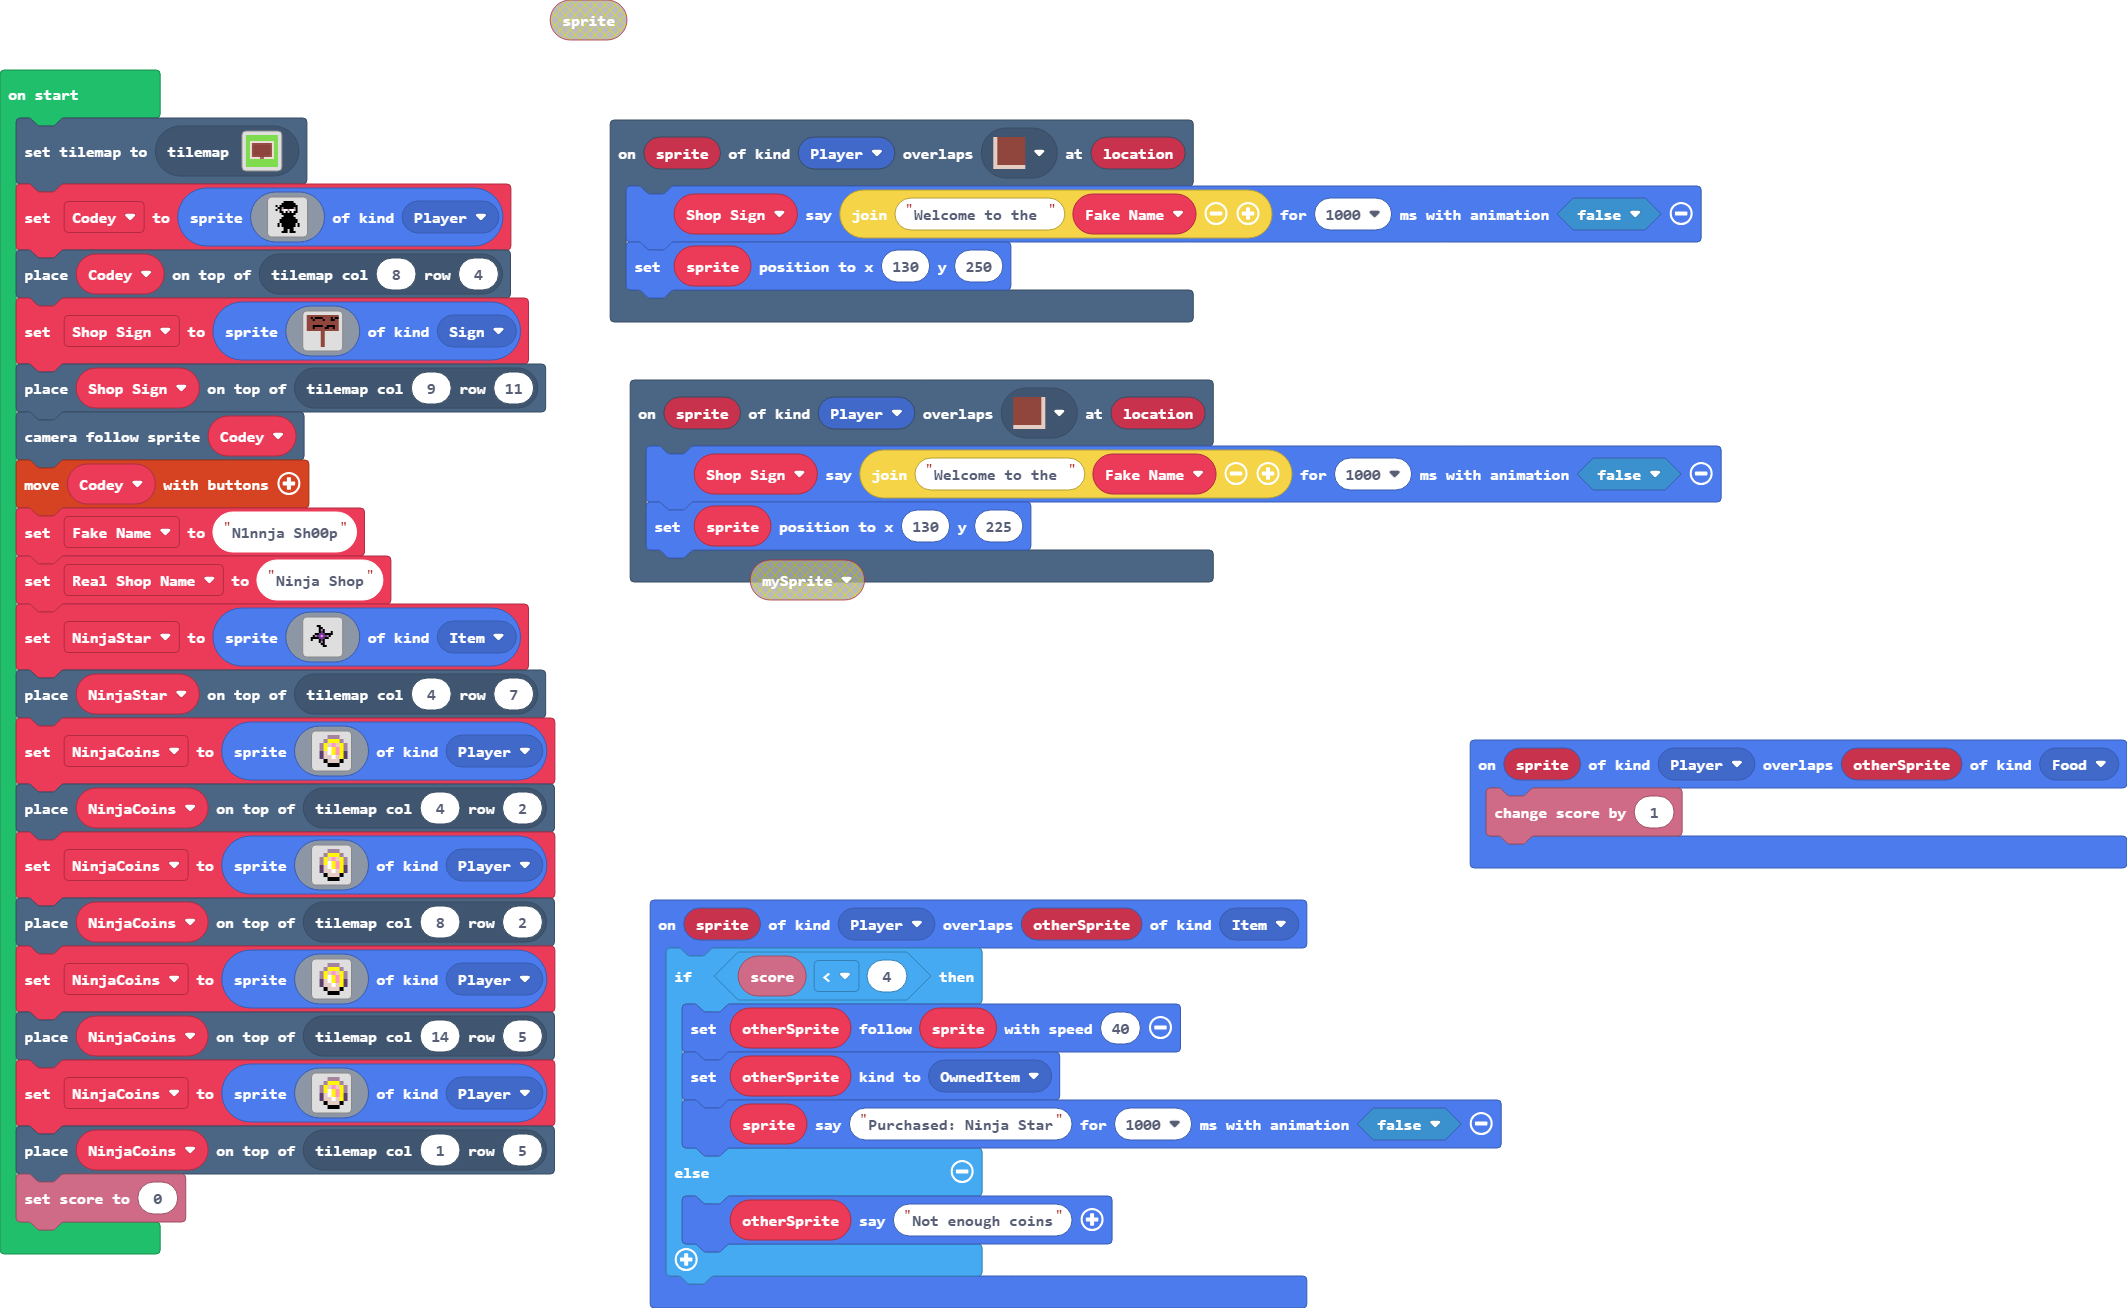
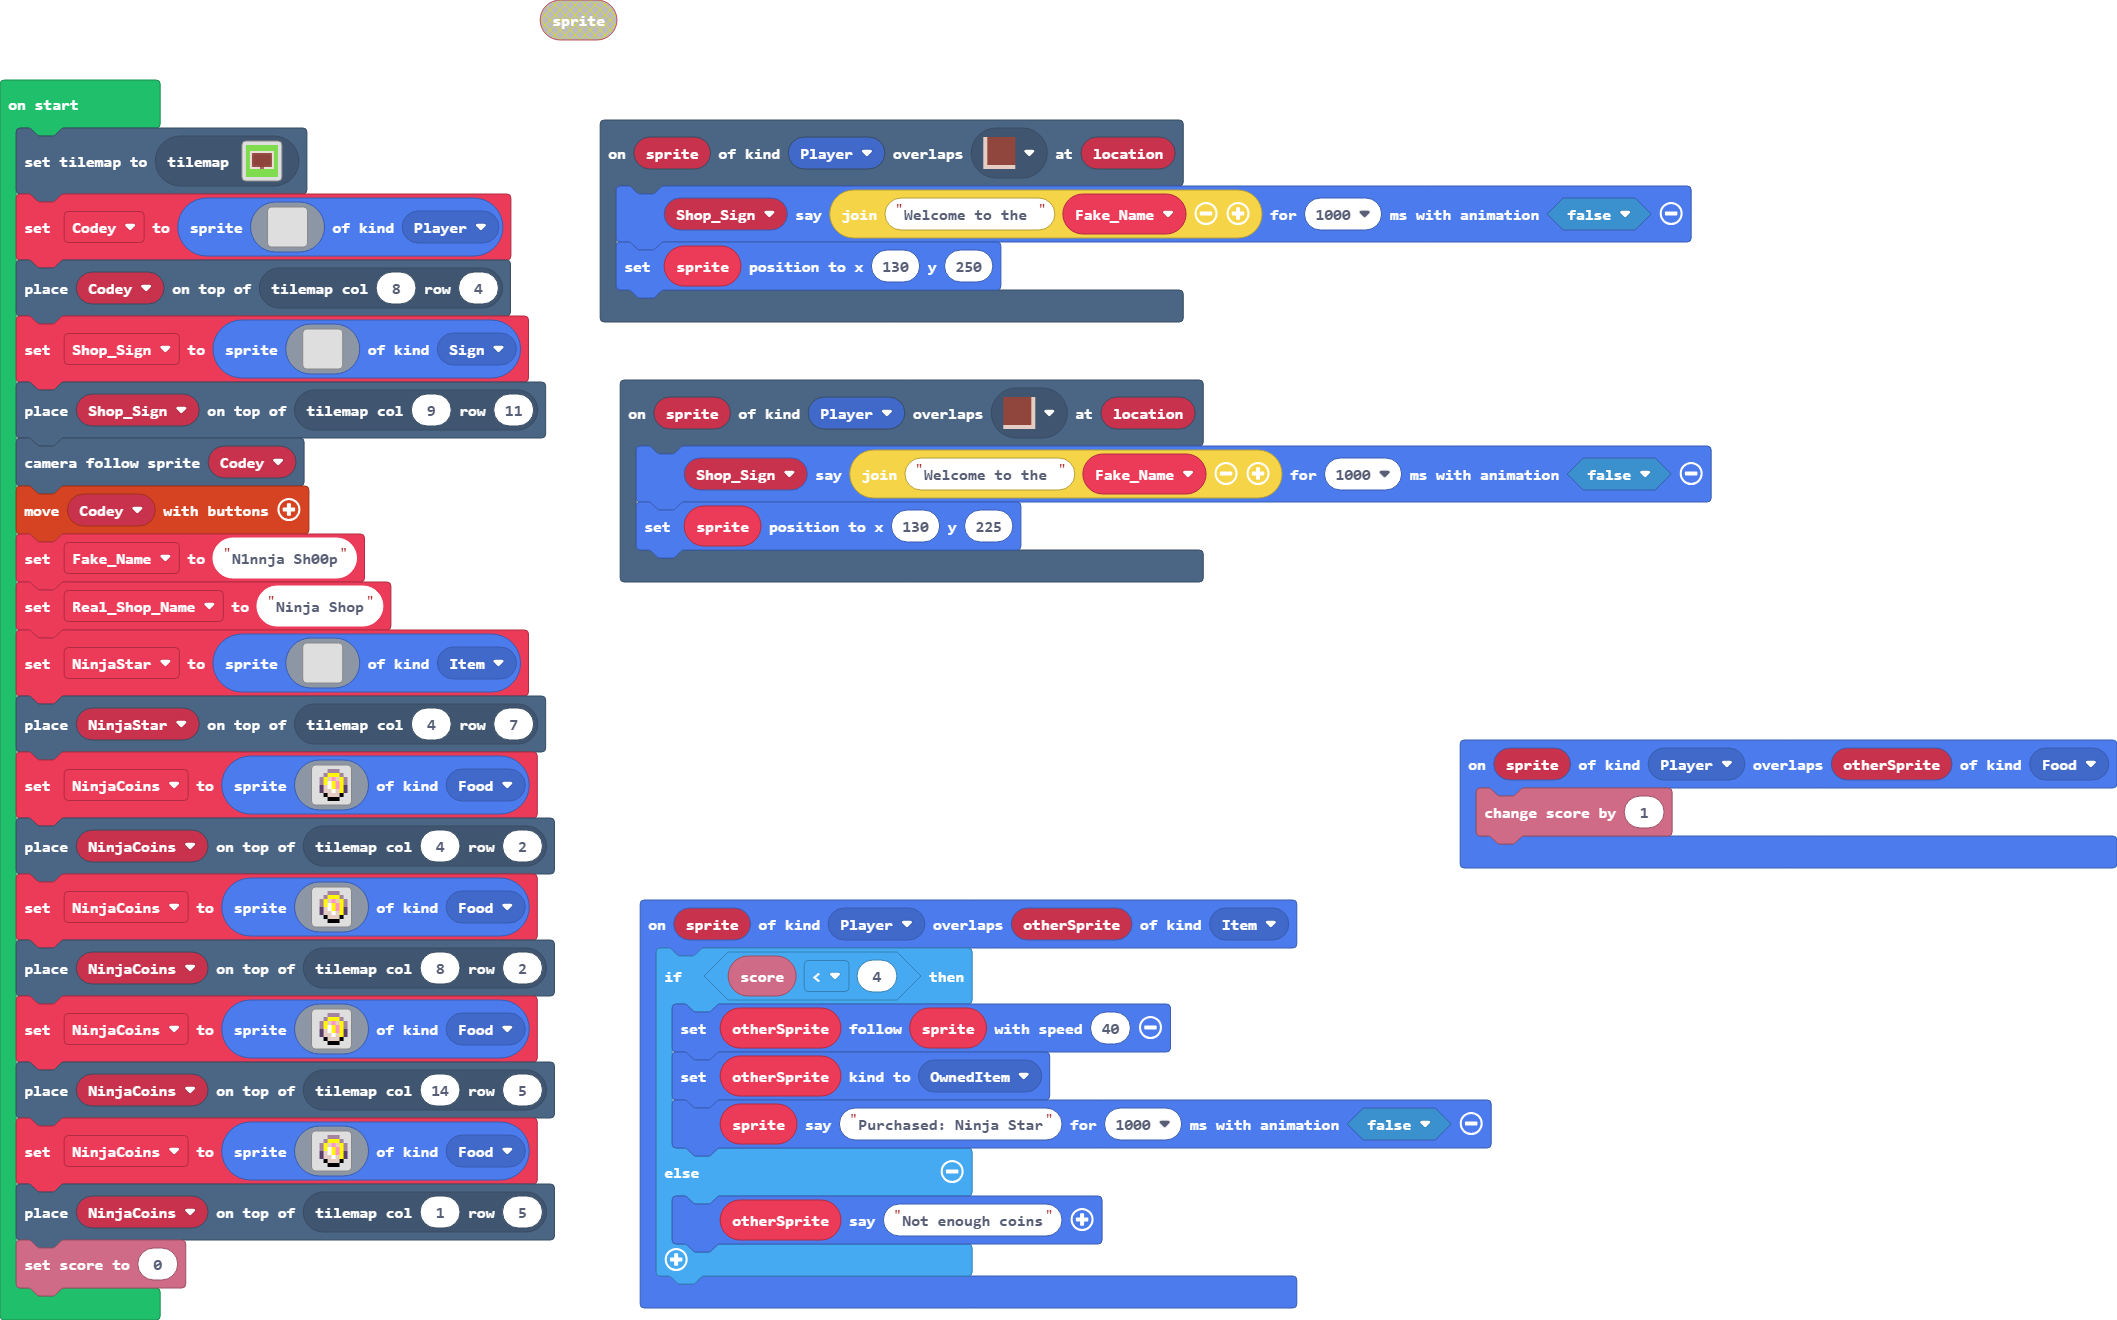
Removed template sprite images and updated introductory step

diff --git a/main.ts b/main.ts
@@ -26,15 +26,66 @@ sprites.onOverlap(SpriteKind.Player, SpriteKind.Food, function (sprite, otherSpr
 let Fake_Name = ""
 let Shop_Sign: Sprite = null
 tiles.setCurrentTilemap(tilemap`Store`)
-let Codey = sprites.create(assets.image`Ninja`, SpriteKind.Player)
+let Codey = sprites.create(img`
+    . . . . . . . . . . . . . . . . 
+    . . . . . . . . . . . . . . . . 
+    . . . . . . . . . . . . . . . . 
+    . . . . . . . . . . . . . . . . 
+    . . . . . . . . . . . . . . . . 
+    . . . . . . . . . . . . . . . . 
+    . . . . . . . . . . . . . . . . 
+    . . . . . . . . . . . . . . . . 
+    . . . . . . . . . . . . . . . . 
+    . . . . . . . . . . . . . . . . 
+    . . . . . . . . . . . . . . . . 
+    . . . . . . . . . . . . . . . . 
+    . . . . . . . . . . . . . . . . 
+    . . . . . . . . . . . . . . . . 
+    . . . . . . . . . . . . . . . . 
+    . . . . . . . . . . . . . . . . 
+    `, SpriteKind.Player)
 tiles.placeOnTile(Codey, tiles.getTileLocation(8, 4))
-Shop_Sign = sprites.create(assets.image`Sign`, SpriteKind.Sign)
+Shop_Sign = sprites.create(img`
+    . . . . . . . . . . . . . . . . 
+    . . . . . . . . . . . . . . . . 
+    . . . . . . . . . . . . . . . . 
+    . . . . . . . . . . . . . . . . 
+    . . . . . . . . . . . . . . . . 
+    . . . . . . . . . . . . . . . . 
+    . . . . . . . . . . . . . . . . 
+    . . . . . . . . . . . . . . . . 
+    . . . . . . . . . . . . . . . . 
+    . . . . . . . . . . . . . . . . 
+    . . . . . . . . . . . . . . . . 
+    . . . . . . . . . . . . . . . . 
+    . . . . . . . . . . . . . . . . 
+    . . . . . . . . . . . . . . . . 
+    . . . . . . . . . . . . . . . . 
+    . . . . . . . . . . . . . . . . 
+    `, SpriteKind.Sign)
 tiles.placeOnTile(Shop_Sign, tiles.getTileLocation(9, 11))
 scene.cameraFollowSprite(Codey)
 controller.moveSprite(Codey)
 Fake_Name = "N1nnja Sh00p"
 let Real_Shop_Name = "Ninja Shop"
-let NinjaStar = sprites.create(assets.image`Ninja Star`, SpriteKind.Item)
+let NinjaStar = sprites.create(img`
+    . . . . . . . . . . . . . . . . 
+    . . . . . . . . . . . . . . . . 
+    . . . . . . . . . . . . . . . . 
+    . . . . . . . . . . . . . . . . 
+    . . . . . . . . . . . . . . . . 
+    . . . . . . . . . . . . . . . . 
+    . . . . . . . . . . . . . . . . 
+    . . . . . . . . . . . . . . . . 
+    . . . . . . . . . . . . . . . . 
+    . . . . . . . . . . . . . . . . 
+    . . . . . . . . . . . . . . . . 
+    . . . . . . . . . . . . . . . . 
+    . . . . . . . . . . . . . . . . 
+    . . . . . . . . . . . . . . . . 
+    . . . . . . . . . . . . . . . . 
+    . . . . . . . . . . . . . . . . 
+    `, SpriteKind.Item)
 tiles.placeOnTile(NinjaStar, tiles.getTileLocation(4, 7))
 let NinjaCoins = sprites.create(img`
     . . . b b b . . 
@@ -45,7 +96,7 @@ let NinjaCoins = sprites.create(img`
     . c d d 1 d 5 c 
     . . f d d d f . 
     . . . f f f . . 
-    `, SpriteKind.Player)
+    `, SpriteKind.Food)
 tiles.placeOnTile(NinjaCoins, tiles.getTileLocation(4, 2))
 NinjaCoins = sprites.create(img`
     . . . b b b . . 
@@ -56,7 +107,7 @@ NinjaCoins = sprites.create(img`
     . c d d 1 d 5 c 
     . . f d d d f . 
     . . . f f f . . 
-    `, SpriteKind.Player)
+    `, SpriteKind.Food)
 tiles.placeOnTile(NinjaCoins, tiles.getTileLocation(8, 2))
 NinjaCoins = sprites.create(img`
     . . . b b b . . 
@@ -67,7 +118,7 @@ NinjaCoins = sprites.create(img`
     . c d d 1 d 5 c 
     . . f d d d f . 
     . . . f f f . . 
-    `, SpriteKind.Player)
+    `, SpriteKind.Food)
 tiles.placeOnTile(NinjaCoins, tiles.getTileLocation(14, 5))
 NinjaCoins = sprites.create(img`
     . . . b b b . . 
@@ -78,6 +129,6 @@ NinjaCoins = sprites.create(img`
     . c d d 1 d 5 c 
     . . f d d d f . 
     . . . f f f . . 
-    `, SpriteKind.Player)
+    `, SpriteKind.Food)
 tiles.placeOnTile(NinjaCoins, tiles.getTileLocation(1, 5))
 info.setScore(0)

diff --git a/Riddle1.md b/Riddle1.md
@@ -28,15 +28,66 @@ sprites.onOverlap(SpriteKind.Player, SpriteKind.Food, function (sprite, otherSpr
 let Fake_Name = ""
 let Shop_Sign: Sprite = null
 tiles.setCurrentTilemap(tilemap`Store`)
-let Codey = sprites.create(assets.image`Ninja`, SpriteKind.Player)
+let Codey = sprites.create(img`
+    . . . . . . . . . . . . . . . . 
+    . . . . . . . . . . . . . . . . 
+    . . . . . . . . . . . . . . . . 
+    . . . . . . . . . . . . . . . . 
+    . . . . . . . . . . . . . . . . 
+    . . . . . . . . . . . . . . . . 
+    . . . . . . . . . . . . . . . . 
+    . . . . . . . . . . . . . . . . 
+    . . . . . . . . . . . . . . . . 
+    . . . . . . . . . . . . . . . . 
+    . . . . . . . . . . . . . . . . 
+    . . . . . . . . . . . . . . . . 
+    . . . . . . . . . . . . . . . . 
+    . . . . . . . . . . . . . . . . 
+    . . . . . . . . . . . . . . . . 
+    . . . . . . . . . . . . . . . . 
+    `, SpriteKind.Player)
 tiles.placeOnTile(Codey, tiles.getTileLocation(8, 4))
-Shop_Sign = sprites.create(assets.image`Sign`, SpriteKind.Sign)
+Shop_Sign = sprites.create(img`
+    . . . . . . . . . . . . . . . . 
+    . . . . . . . . . . . . . . . . 
+    . . . . . . . . . . . . . . . . 
+    . . . . . . . . . . . . . . . . 
+    . . . . . . . . . . . . . . . . 
+    . . . . . . . . . . . . . . . . 
+    . . . . . . . . . . . . . . . . 
+    . . . . . . . . . . . . . . . . 
+    . . . . . . . . . . . . . . . . 
+    . . . . . . . . . . . . . . . . 
+    . . . . . . . . . . . . . . . . 
+    . . . . . . . . . . . . . . . . 
+    . . . . . . . . . . . . . . . . 
+    . . . . . . . . . . . . . . . . 
+    . . . . . . . . . . . . . . . . 
+    . . . . . . . . . . . . . . . . 
+    `, SpriteKind.Sign)
 tiles.placeOnTile(Shop_Sign, tiles.getTileLocation(9, 11))
 scene.cameraFollowSprite(Codey)
 controller.moveSprite(Codey)
 Fake_Name = "N1nnja Sh00p"
 let Real_Shop_Name = "Ninja Shop"
-let NinjaStar = sprites.create(assets.image`Ninja Star`, SpriteKind.Item)
+let NinjaStar = sprites.create(img`
+    . . . . . . . . . . . . . . . . 
+    . . . . . . . . . . . . . . . . 
+    . . . . . . . . . . . . . . . . 
+    . . . . . . . . . . . . . . . . 
+    . . . . . . . . . . . . . . . . 
+    . . . . . . . . . . . . . . . . 
+    . . . . . . . . . . . . . . . . 
+    . . . . . . . . . . . . . . . . 
+    . . . . . . . . . . . . . . . . 
+    . . . . . . . . . . . . . . . . 
+    . . . . . . . . . . . . . . . . 
+    . . . . . . . . . . . . . . . . 
+    . . . . . . . . . . . . . . . . 
+    . . . . . . . . . . . . . . . . 
+    . . . . . . . . . . . . . . . . 
+    . . . . . . . . . . . . . . . . 
+    `, SpriteKind.Item)
 tiles.placeOnTile(NinjaStar, tiles.getTileLocation(4, 7))
 let NinjaCoins = sprites.create(img`
     . . . b b b . . 
@@ -47,7 +98,7 @@ let NinjaCoins = sprites.create(img`
     . c d d 1 d 5 c 
     . . f d d d f . 
     . . . f f f . . 
-    `, SpriteKind.Player)
+    `, SpriteKind.Food)
 tiles.placeOnTile(NinjaCoins, tiles.getTileLocation(4, 2))
 NinjaCoins = sprites.create(img`
     . . . b b b . . 
@@ -58,7 +109,7 @@ NinjaCoins = sprites.create(img`
     . c d d 1 d 5 c 
     . . f d d d f . 
     . . . f f f . . 
-    `, SpriteKind.Player)
+    `, SpriteKind.Food)
 tiles.placeOnTile(NinjaCoins, tiles.getTileLocation(8, 2))
 NinjaCoins = sprites.create(img`
     . . . b b b . . 
@@ -69,7 +120,7 @@ NinjaCoins = sprites.create(img`
     . c d d 1 d 5 c 
     . . f d d d f . 
     . . . f f f . . 
-    `, SpriteKind.Player)
+    `, SpriteKind.Food)
 tiles.placeOnTile(NinjaCoins, tiles.getTileLocation(14, 5))
 NinjaCoins = sprites.create(img`
     . . . b b b . . 
@@ -80,22 +131,24 @@ NinjaCoins = sprites.create(img`
     . c d d 1 d 5 c 
     . . f d d d f . 
     . . . f f f . . 
-    `, SpriteKind.Player)
+    `, SpriteKind.Food)
 tiles.placeOnTile(NinjaCoins, tiles.getTileLocation(1, 5))
 info.setScore(0)
+
 
 ```
 
 # Codey's Shopping Spree
 
 ## Codey's Shopping Spree @showdialog
-
-## Introduction
 Hello Ninjas, welcome to the first riddle of the Code Ninjas 2nd year anniversary event!
 
 You will be guided through these activities with steps and clues of what needs to be solved in this side panel, if you think everythings correct, move on to the next step!
 
 ## Step 1
+Somethings missing! Design your own codey sprite, sign sprite, and ninja star sprite so there are no more empty sprites!
+
+## Step 2
 Codey is trying to buy decorations for the center as the 2nd year anniversary approaches. He heads over to the ninja shop in search of something matching the ninja theme, unfortunately he runs into a problem.
 
 Fix the bug in the code so Codey can enter the ninja shop!
@@ -104,7 +157,7 @@ Codey makes his way into the ninja shop but notices something is off with the si
 
 What's wrong with the sign text? Fix the code!
 
-## Step 2
+## Step 3
 
 Codey enters the store and picks up a few ninja stars and some ninja belts, Codey his wallet to pay and notices a hole at the bottom, he has no money but somehow the cashier lets him leave for free
 
